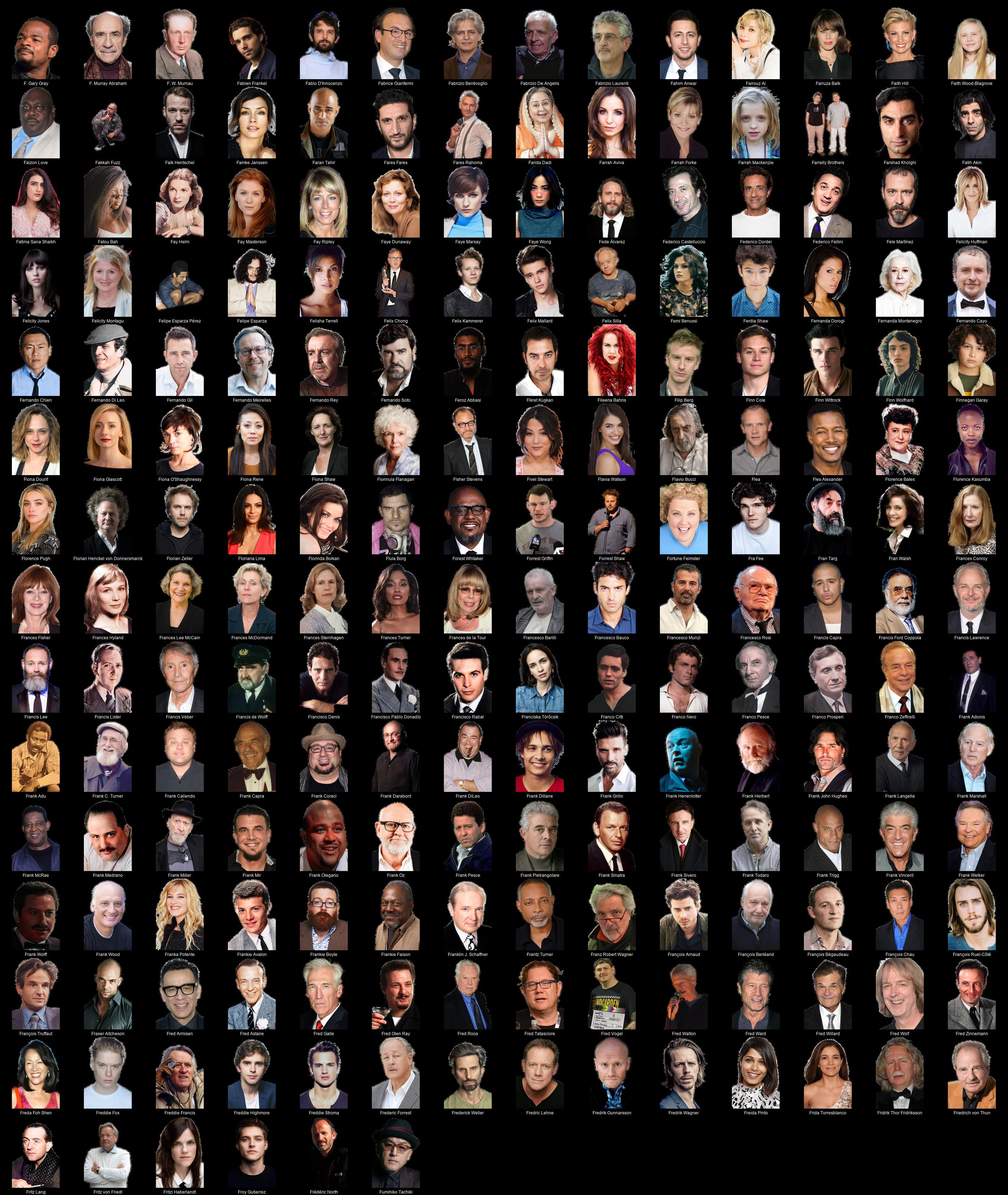
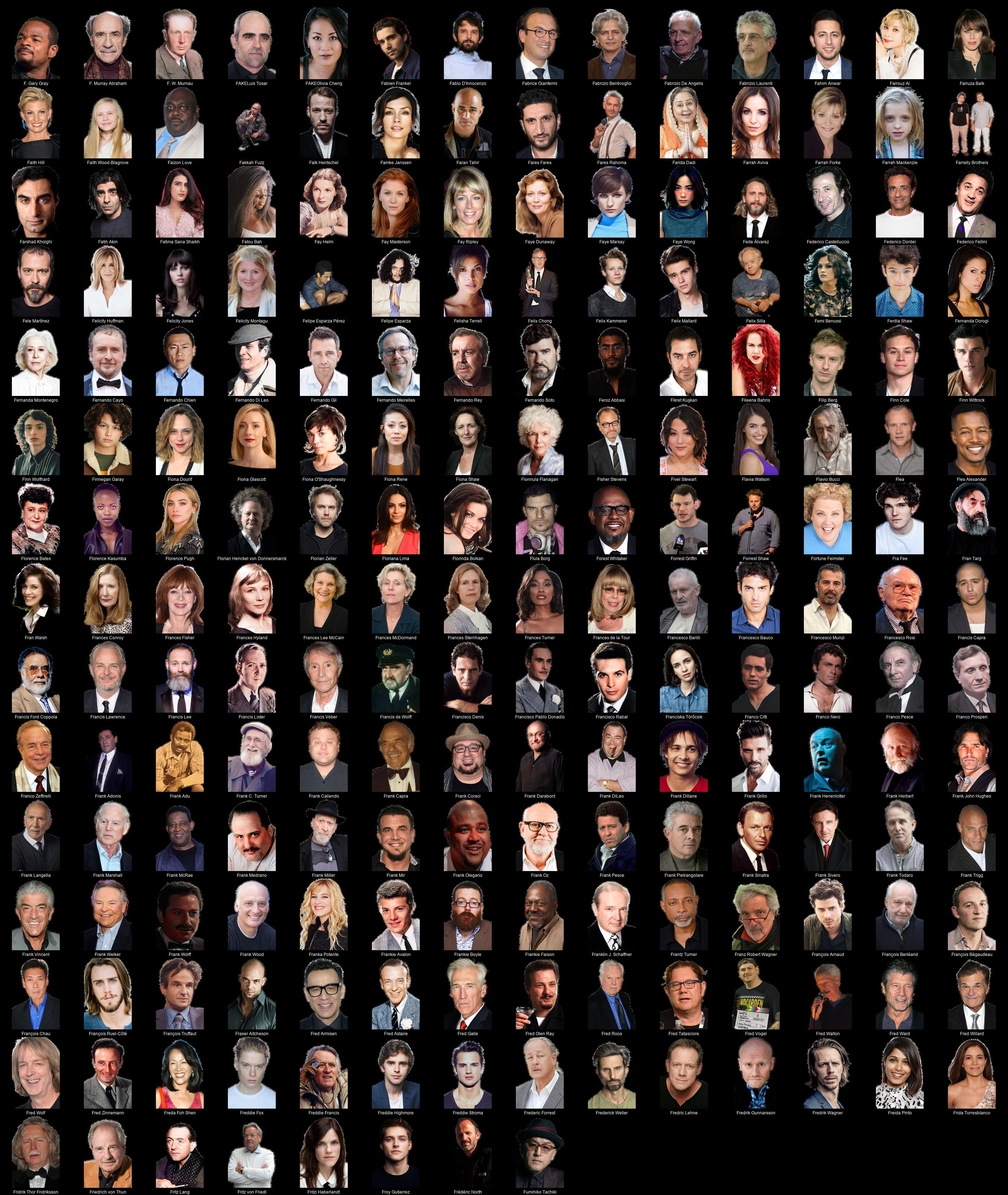
chore: sync posters & docs [transparent,diiivoycolor,signature,diiivoy,rainier] — 2026-02-06 15:29

diff --git a/README.md b/README.md
@@ -1,4 +1,4 @@
-# Kometa People Images - Transparent (transparent) (11328 Images)
+# Kometa People Images - Transparent (transparent) (11332 Images)
 
 <details><summary><a href="'">' (1 Images)</a></summary>
 
@@ -2955,7 +2955,7 @@
 * [Débora Nascimento](https://raw.githubusercontent.com/kometa-team/People-Images-transparent/master/D/Images/D%C3%A9bora%20Nascimento.png)
 * [Díana Bermudez](https://raw.githubusercontent.com/kometa-team/People-Images-transparent/master/D/Images/D%C3%ADana%20Bermudez.png)
 </details>
-<details><summary><a href="E">E (401 Images)</a></summary>
+<details><summary><a href="E">E (403 Images)</a></summary>
 
 * [E.G. Marshall](https://raw.githubusercontent.com/kometa-team/People-Images-transparent/master/E/Images/E.G.%20Marshall.png)
 * [E.J. Bonilla](https://raw.githubusercontent.com/kometa-team/People-Images-transparent/master/E/Images/E.J.%20Bonilla.png)
@@ -3091,6 +3091,7 @@
 * [Elizabeth Healey](https://raw.githubusercontent.com/kometa-team/People-Images-transparent/master/E/Images/Elizabeth%20Healey.png)
 * [Elizabeth Hurley](https://raw.githubusercontent.com/kometa-team/People-Images-transparent/master/E/Images/Elizabeth%20Hurley.png)
 * [Elizabeth Judd](https://raw.githubusercontent.com/kometa-team/People-Images-transparent/master/E/Images/Elizabeth%20Judd.png)
+* [Elizabeth Lail](https://raw.githubusercontent.com/kometa-team/People-Images-transparent/master/E/Images/Elizabeth%20Lail.png)
 * [Elizabeth Lamboy-Wilson](https://raw.githubusercontent.com/kometa-team/People-Images-transparent/master/E/Images/Elizabeth%20Lamboy-Wilson.png)
 * [Elizabeth Martin](https://raw.githubusercontent.com/kometa-team/People-Images-transparent/master/E/Images/Elizabeth%20Martin.png)
 * [Elizabeth McGovern](https://raw.githubusercontent.com/kometa-team/People-Images-transparent/master/E/Images/Elizabeth%20McGovern.png)
@@ -3106,6 +3107,7 @@
 * [Elizabeth Wilson](https://raw.githubusercontent.com/kometa-team/People-Images-transparent/master/E/Images/Elizabeth%20Wilson.png)
 * [Ella Hunt](https://raw.githubusercontent.com/kometa-team/People-Images-transparent/master/E/Images/Ella%20Hunt.png)
 * [Ella Jay Basco](https://raw.githubusercontent.com/kometa-team/People-Images-transparent/master/E/Images/Ella%20Jay%20Basco.png)
+* [Ella Leyers](https://raw.githubusercontent.com/kometa-team/People-Images-transparent/master/E/Images/Ella%20Leyers.png)
 * [Ella Mika](https://raw.githubusercontent.com/kometa-team/People-Images-transparent/master/E/Images/Ella%20Mika.png)
 * [Ella Purnell](https://raw.githubusercontent.com/kometa-team/People-Images-transparent/master/E/Images/Ella%20Purnell.png)
 * [Elle Fanning](https://raw.githubusercontent.com/kometa-team/People-Images-transparent/master/E/Images/Elle%20Fanning.png)
@@ -3359,11 +3361,13 @@
 * [Ezra Buzzington](https://raw.githubusercontent.com/kometa-team/People-Images-transparent/master/E/Images/Ezra%20Buzzington.png)
 * [Ezra Miller](https://raw.githubusercontent.com/kometa-team/People-Images-transparent/master/E/Images/Ezra%20Miller.png)
 </details>
-<details><summary><a href="F">F (202 Images)</a></summary>
+<details><summary><a href="F">F (204 Images)</a></summary>
 
 * [F. Gary Gray](https://raw.githubusercontent.com/kometa-team/People-Images-transparent/master/F/Images/F.%20Gary%20Gray.png)
 * [F. Murray Abraham](https://raw.githubusercontent.com/kometa-team/People-Images-transparent/master/F/Images/F.%20Murray%20Abraham.png)
 * [F. W. Murnau](https://raw.githubusercontent.com/kometa-team/People-Images-transparent/master/F/Images/F.%20W.%20Murnau.png)
+* [FAKELuis Tosar](https://raw.githubusercontent.com/kometa-team/People-Images-transparent/master/F/Images/FAKELuis%20Tosar.png)
+* [FAKEOlivia Cheng](https://raw.githubusercontent.com/kometa-team/People-Images-transparent/master/F/Images/FAKEOlivia%20Cheng.png)
 * [Fabien Frankel](https://raw.githubusercontent.com/kometa-team/People-Images-transparent/master/F/Images/Fabien%20Frankel.png)
 * [Fabio D'Innocenzo](https://raw.githubusercontent.com/kometa-team/People-Images-transparent/master/F/Images/Fabio%20D%27Innocenzo.png)
 * [Fabrice Gianfermi](https://raw.githubusercontent.com/kometa-team/People-Images-transparent/master/F/Images/Fabrice%20Gianfermi.png)

diff --git a/E/README.md b/E/README.md
@@ -1,4 +1,4 @@
-# Kometa People Images - Transparent (transparent) - E (401 Images)
+# Kometa People Images - Transparent (transparent) - E (403 Images)
 ![Grid](grid.jpg)
 
 * [E.G. Marshall](https://raw.githubusercontent.com/kometa-team/People-Images-transparent/master/E/Images/E.G.%20Marshall.png)
@@ -135,6 +135,7 @@
 * [Elizabeth Healey](https://raw.githubusercontent.com/kometa-team/People-Images-transparent/master/E/Images/Elizabeth%20Healey.png)
 * [Elizabeth Hurley](https://raw.githubusercontent.com/kometa-team/People-Images-transparent/master/E/Images/Elizabeth%20Hurley.png)
 * [Elizabeth Judd](https://raw.githubusercontent.com/kometa-team/People-Images-transparent/master/E/Images/Elizabeth%20Judd.png)
+* [Elizabeth Lail](https://raw.githubusercontent.com/kometa-team/People-Images-transparent/master/E/Images/Elizabeth%20Lail.png)
 * [Elizabeth Lamboy-Wilson](https://raw.githubusercontent.com/kometa-team/People-Images-transparent/master/E/Images/Elizabeth%20Lamboy-Wilson.png)
 * [Elizabeth Martin](https://raw.githubusercontent.com/kometa-team/People-Images-transparent/master/E/Images/Elizabeth%20Martin.png)
 * [Elizabeth McGovern](https://raw.githubusercontent.com/kometa-team/People-Images-transparent/master/E/Images/Elizabeth%20McGovern.png)
@@ -150,6 +151,7 @@
 * [Elizabeth Wilson](https://raw.githubusercontent.com/kometa-team/People-Images-transparent/master/E/Images/Elizabeth%20Wilson.png)
 * [Ella Hunt](https://raw.githubusercontent.com/kometa-team/People-Images-transparent/master/E/Images/Ella%20Hunt.png)
 * [Ella Jay Basco](https://raw.githubusercontent.com/kometa-team/People-Images-transparent/master/E/Images/Ella%20Jay%20Basco.png)
+* [Ella Leyers](https://raw.githubusercontent.com/kometa-team/People-Images-transparent/master/E/Images/Ella%20Leyers.png)
 * [Ella Mika](https://raw.githubusercontent.com/kometa-team/People-Images-transparent/master/E/Images/Ella%20Mika.png)
 * [Ella Purnell](https://raw.githubusercontent.com/kometa-team/People-Images-transparent/master/E/Images/Ella%20Purnell.png)
 * [Elle Fanning](https://raw.githubusercontent.com/kometa-team/People-Images-transparent/master/E/Images/Elle%20Fanning.png)

diff --git a/F/README.md b/F/README.md
@@ -1,9 +1,11 @@
-# Kometa People Images - Transparent (transparent) - F (202 Images)
+# Kometa People Images - Transparent (transparent) - F (204 Images)
 ![Grid](grid.jpg)
 
 * [F. Gary Gray](https://raw.githubusercontent.com/kometa-team/People-Images-transparent/master/F/Images/F.%20Gary%20Gray.png)
 * [F. Murray Abraham](https://raw.githubusercontent.com/kometa-team/People-Images-transparent/master/F/Images/F.%20Murray%20Abraham.png)
 * [F. W. Murnau](https://raw.githubusercontent.com/kometa-team/People-Images-transparent/master/F/Images/F.%20W.%20Murnau.png)
+* [FAKELuis Tosar](https://raw.githubusercontent.com/kometa-team/People-Images-transparent/master/F/Images/FAKELuis%20Tosar.png)
+* [FAKEOlivia Cheng](https://raw.githubusercontent.com/kometa-team/People-Images-transparent/master/F/Images/FAKEOlivia%20Cheng.png)
 * [Fabien Frankel](https://raw.githubusercontent.com/kometa-team/People-Images-transparent/master/F/Images/Fabien%20Frankel.png)
 * [Fabio D'Innocenzo](https://raw.githubusercontent.com/kometa-team/People-Images-transparent/master/F/Images/Fabio%20D%27Innocenzo.png)
 * [Fabrice Gianfermi](https://raw.githubusercontent.com/kometa-team/People-Images-transparent/master/F/Images/Fabrice%20Gianfermi.png)
